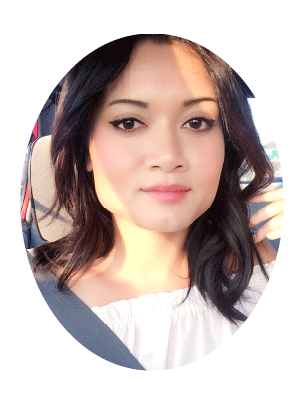
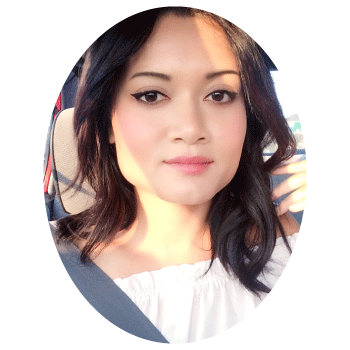
about changes

diff --git a/_includes/portfolio.html b/_includes/portfolio.html
@@ -6,7 +6,7 @@
     <div class="container-fluid">
         <div class="row">
             <div class="col col-lg-4 col-md-12">
-                <img src="img/portfolio/Will_bio.png" class="img-responsive" alt="">
+                <img src="img/portfolio/Will_bio.png" class="img-responsive" alt="William Khaziri" width="263">
                 <h4>William Khaziri</h4>
                 <div class="portfolio-box-caption">
                     <div class="portfolio-box-caption-content">
@@ -21,7 +21,7 @@
                 </div>
             </div>
             <div class="col col-lg-4 col-md-6">
-                <img src="img/portfolio/Tim_bio.png" class="img-responsive" alt="">
+                <img src="img/portfolio/Tim_bio.png" class="img-responsive" alt="Timothy Griffith" width="263">
                 <h4>Timothy Griffith</h4>
                 <div class="portfolio-box-caption">
                     <div class="portfolio-box-caption-content">
@@ -36,7 +36,7 @@
                 </div>
             </div>
             <div class="col col-lg-4 col-md-6">
-                <img src="img/portfolio/Jen_bio.png" class="img-responsive" alt="">
+                <img src="img/portfolio/Jen_bio.png" class="img-responsive" alt="Jen Nguyen" width="263">
                 <h4>Jen Nguyen</h4>
                 <div class="portfolio-box-caption">
                     <div class="portfolio-box-caption-content">
